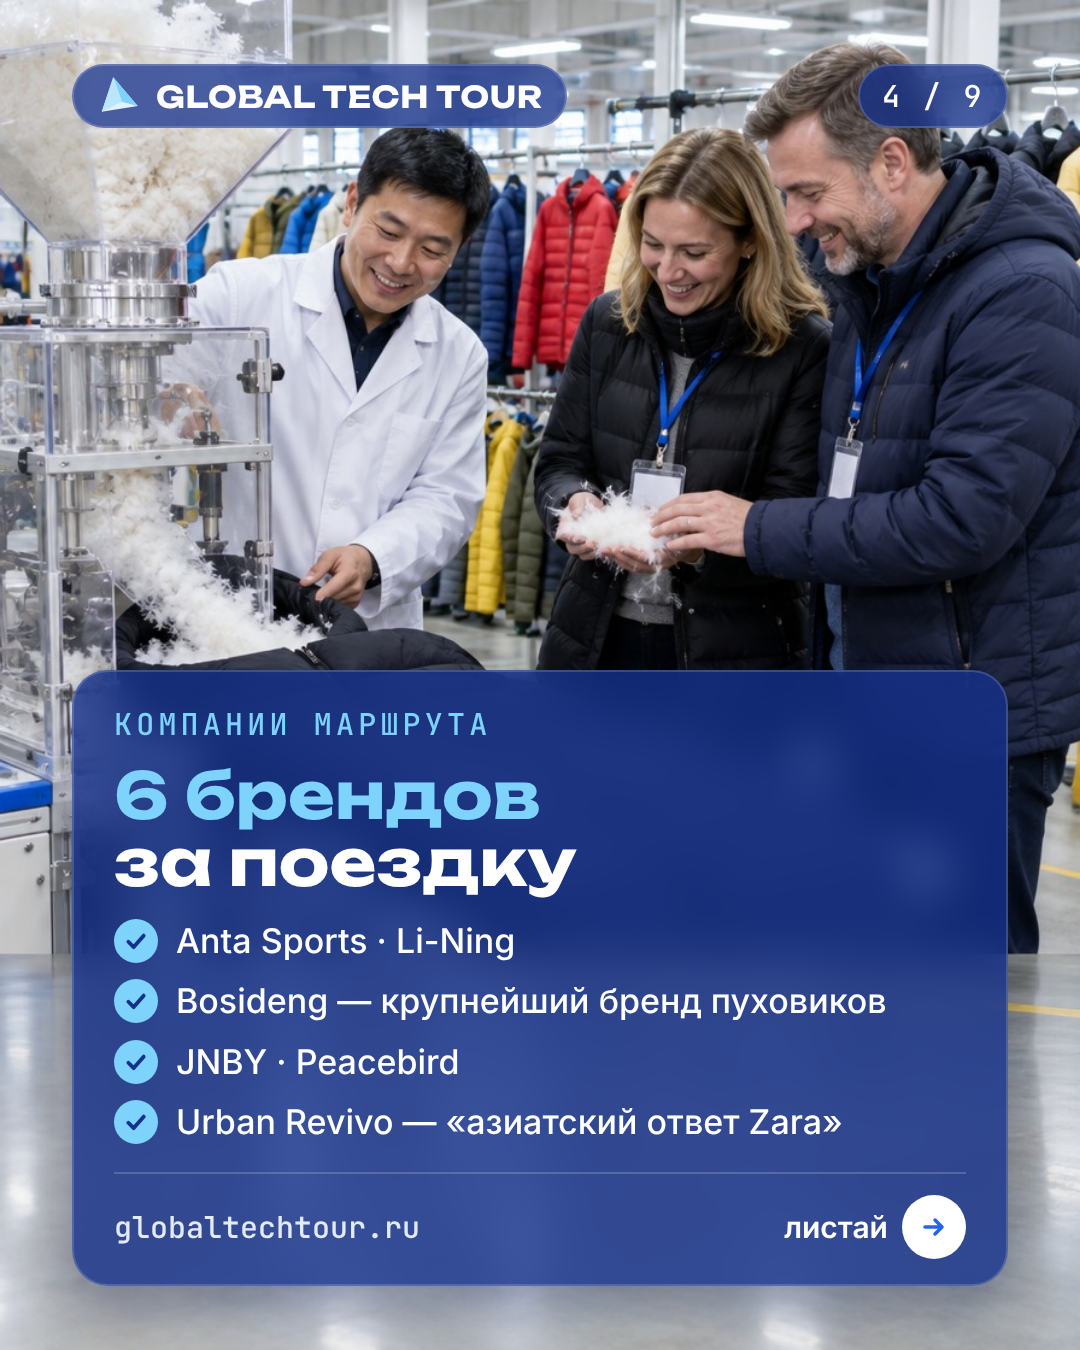
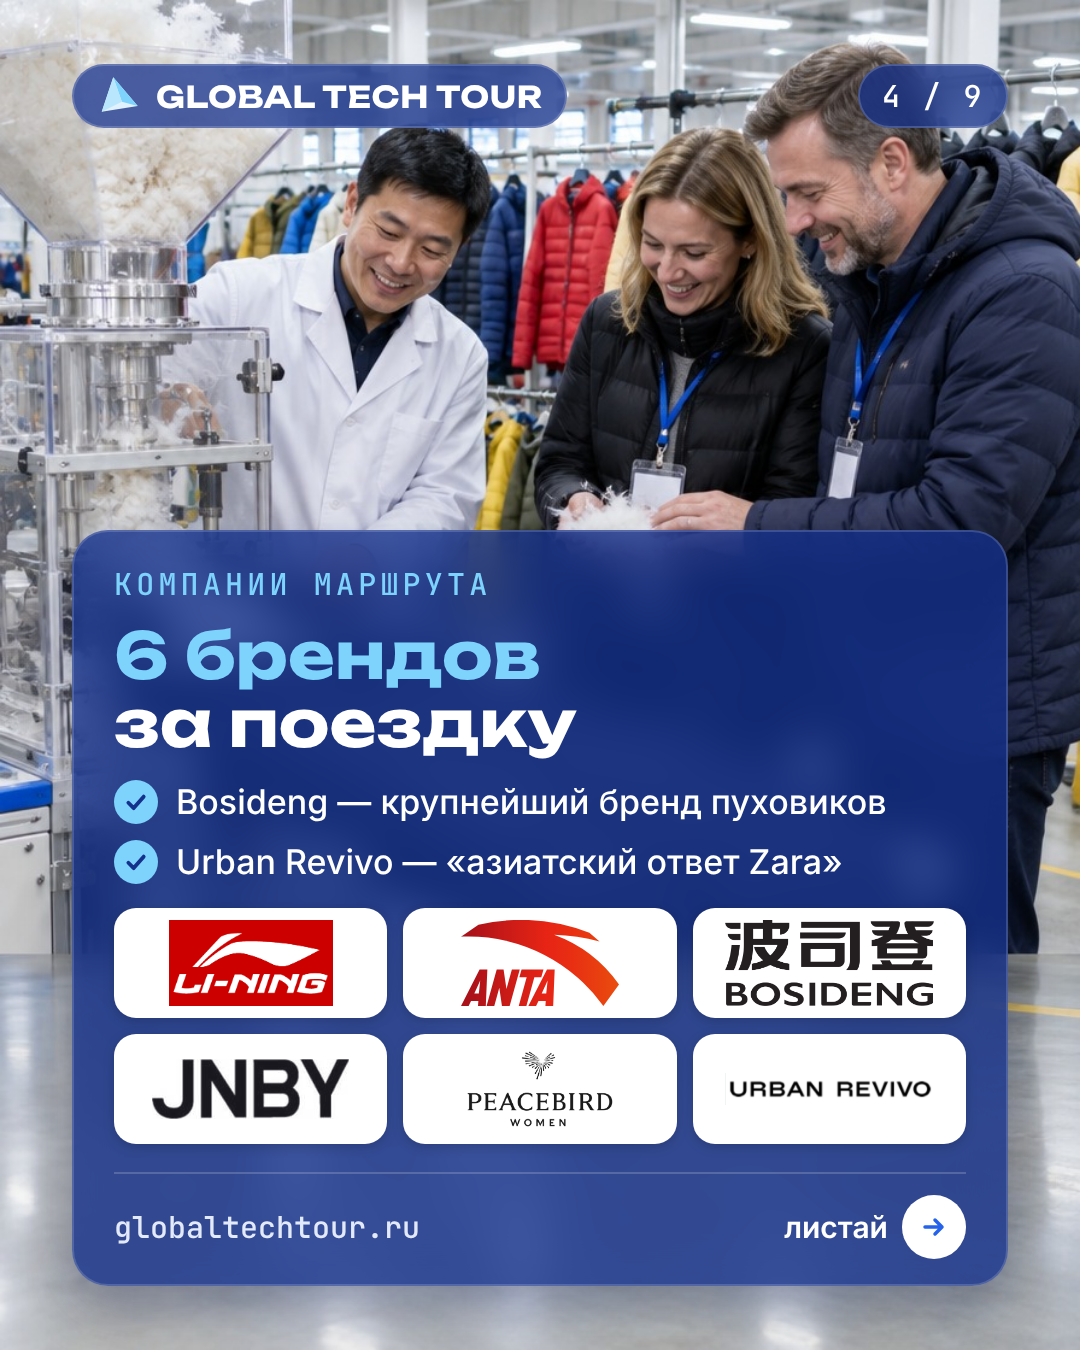
Карусели туров: логотипы всех компаний маршрута (Технопарки, Бренды, Финтех, Отходы, Нефтехимия, Логистика), сетки 2×2 и 5×2; раскадровка Логистики после исправления JD
Claude-Session: https://claude.ai/code/session_01GWbvgKxue3PjjbbHEP4BVJ

Changed region(s): [[0.0611, 0.3733, 0.9472, 0.8711]]

diff --git a/reels-studio/src/compositions/carousel/photo.tsx b/reels-studio/src/compositions/carousel/photo.tsx
@@ -104,7 +104,8 @@ const LogoRow: React.FC<{logos?: {src: string; name?: string}[]; s: Style; style
   const k = useFit();
   if (!logos?.length) return null;
   const many = logos.length > 6; // 7–8 логотипов — по четыре в ряд, ниже карточки
-  const cols = many && logos.length !== 9 ? 4 : 3; // 9 логотипов — сеткой 3×3 (решение пользователя 12.10.2026)
+  // 9 логотипов — сеткой 3×3 (решение пользователя 12.10.2026); 4 — 2×2, 10 — 5×2, чтобы не было «хвоста» из одной карточки
+  const cols = logos.length === 4 ? 2 : logos.length === 10 ? 5 : many && logos.length !== 9 ? 4 : 3;
   const h = Math.round((many ? 96 : 110) * k);
   return (
     <div style={{display: "grid", gridTemplateColumns: `repeat(${cols}, 1fr)`, gap: many ? 14 : 16, ...style}}>

diff --git a/reels-studio/CLAUDE.md b/reels-studio/CLAUDE.md
@@ -658,7 +658,9 @@ nod, scan, shrug`. Превью логотипа и всех жестов — к
   за фото): сценарии — `Ostap-87/POST-HUB`, `CONTROL/SOURCES/2026-10-10_карусели-instagram/` (GTT 74, Aura 20; в работе
   первая половина каждого списка). Слайд сценария → тип: «Обложка» → `photoCover`; «Текст» → `photoFull` / `photoCard`;
   «Список» и «Шаги» → `photoCard` / `photoFull` с `items` (у шагов `numbered: true`); «Цифра» → `photoStat`;
-  «Логотипы» → `photoCard` / `photoFull` с `logos` (до 6 — по три в ряд, 7–8 — по четыре, 9 — сеткой 3×3, решение пользователя 12.10.2026); «Сравнение» → `photoPair` (без рамки — `frame: false`, пункты сторон
+  «Логотипы» → `photoCard` / `photoFull` с `logos` (до 6 — по три в ряд, 7–8 — по четыре, 9 — сеткой 3×3, решение пользователя 12.10.2026;
+  4 — 2×2, 10 — 5×2). В карусели тура на слайде «Компании маршрута» — логотипы **всех** компаний маршрута, на слайде с цифрой —
+  логотип её компании (`logo`) [П, 29.10.2026: «на них не вижу логотипов тех компаний к которым мы едем — это надо исправить»]; «Сравнение» → `photoPair` (без рамки — `frame: false`, пункты сторон
   в `images[].items`); «Финал» → `photoCta` с коллажем из фото этой же карусели. Подача — через один по правилу выше.
   Фото: Higgsfield GPT Image 2.5, medium, 1k (0,5 кредита) — для слайдов без рамки 4:5 (896×1120), в рамке 4:3 (1168×880),
   половинки сравнения 9:16; главное — в верхней половине кадра. Позитивные люди, без текста и логотипов в кадре; подписи
